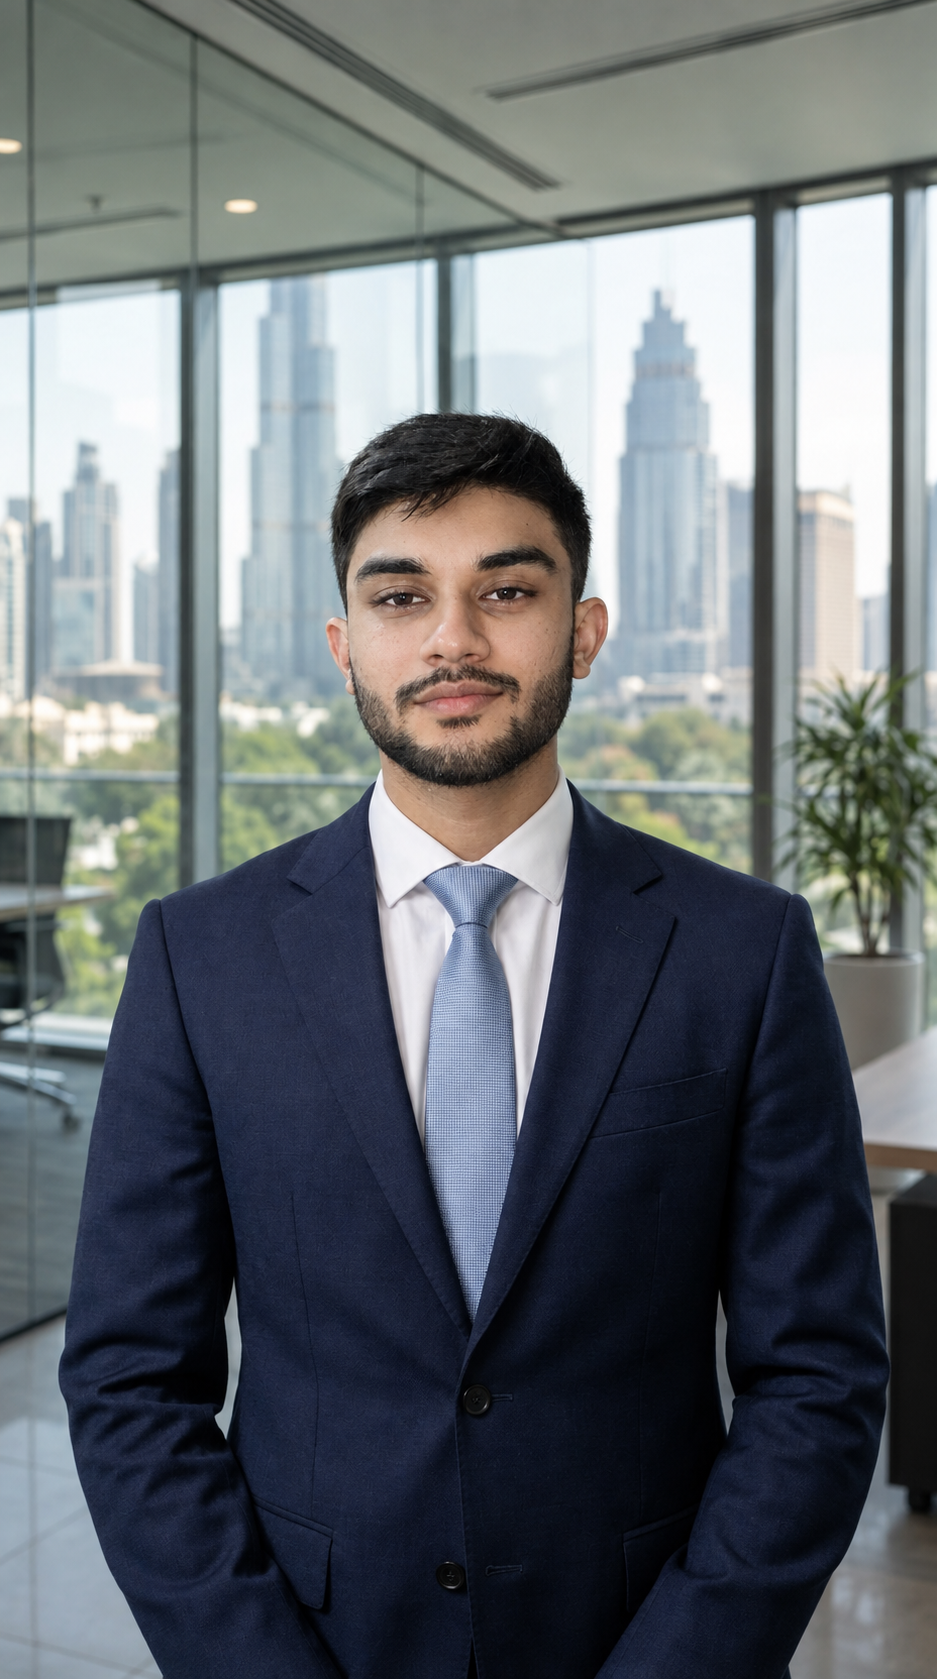
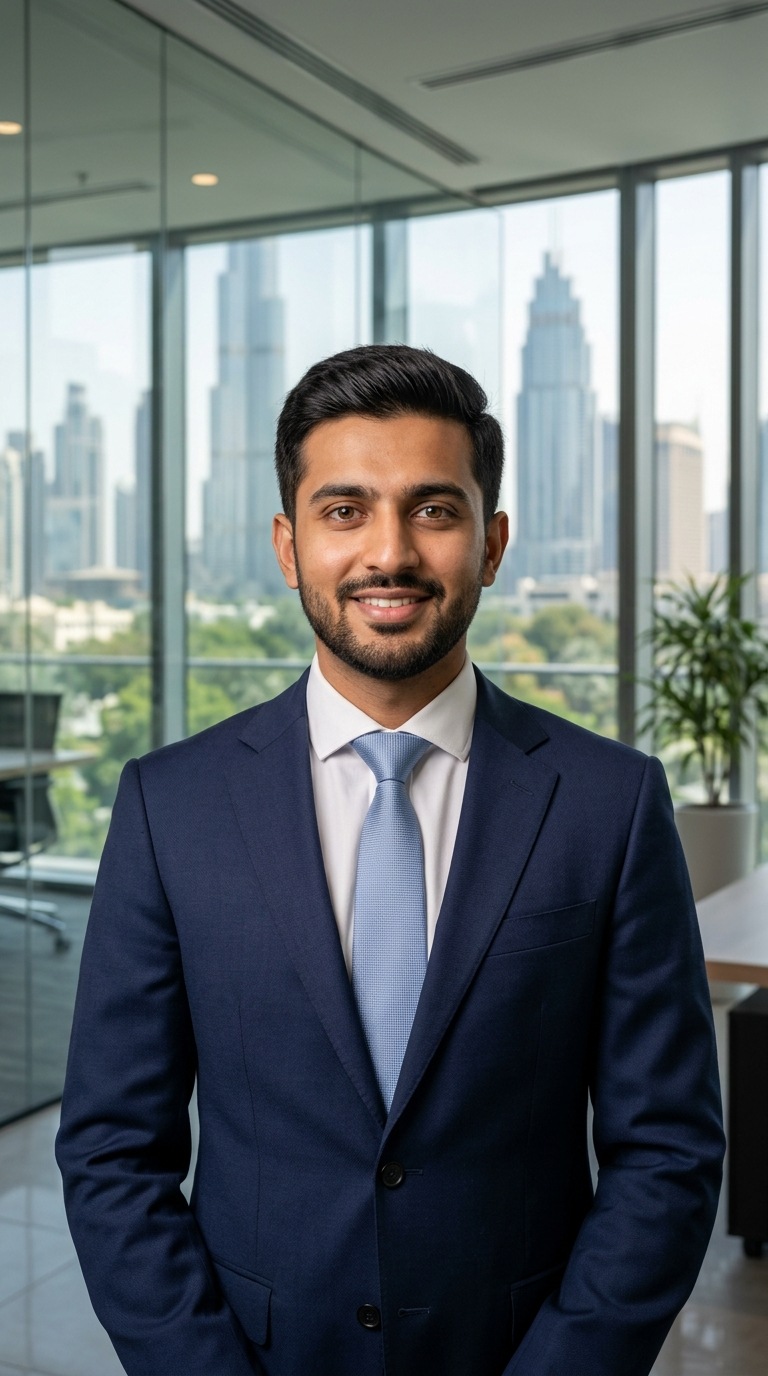
yes i fixed the bugs

diff --git a/css/style.css b/css/style.css
@@ -231,7 +231,8 @@ body {
 /* ==========================================================================
    NAVIGATION BAR
    ========================================================================== */
-.navbar {
+.header,
+#navbar {
   position: sticky;
   top: 0;
   left: 0;
@@ -239,39 +240,51 @@ body {
   height: var(--nav-height);
   z-index: 1000;
   background-color: rgba(7, 9, 14, 0.85);
-  backdrop-filter: blur(16px);
-  -webkit-backdrop-filter: blur(16px);
+  backdrop-filter: blur(18px);
+  -webkit-backdrop-filter: blur(18px);
   border-bottom: 1px solid var(--border-color);
-  transition: var(--transition-smooth);
+  transition: background-color 0.25s ease, box-shadow 0.25s ease, border-color 0.25s ease;
 }
 
-.navbar.scrolled {
-  background-color: rgba(7, 9, 14, 0.95);
-  box-shadow: 0 10px 30px rgba(0, 0, 0, 0.6);
-  border-bottom-color: rgba(99, 102, 241, 0.2);
+.header.scrolled,
+#navbar.scrolled {
+  background-color: rgba(7, 9, 14, 0.96);
+  box-shadow: 0 10px 30px rgba(0, 0, 0, 0.65);
+  border-bottom-color: rgba(99, 102, 241, 0.22);
 }
 
-.nav-container {
+/* Rebuilt Balanced 3-Section Navbar: [Brand] [Nav Links] [CTA Button] */
+.navbar {
+  width: 100%;
+  max-width: 100%;
+  height: 100%;
   display: flex;
   align-items: center;
   justify-content: space-between;
-  height: 100%;
+  padding-left: 40px;
+  padding-right: 40px;
+  gap: 36px; /* Guaranteed minimum separation between Brand, Nav, and CTA */
+  box-sizing: border-box;
 }
 
-/* Brand Identity */
+/* 1. LEFT SECTION: Brand Identity */
 .brand {
   display: inline-flex;
   align-items: center;
-  gap: 12px;
+  gap: 14px; /* Comfortable gap between logo and brand name */
   text-decoration: none;
-  color: var(--text-color);
-  white-space: nowrap;
-  flex-shrink: 0;
+  flex-shrink: 0; /* Never shrink or overlap */
+  cursor: pointer;
+  transition: opacity 0.2s ease;
+}
+
+.brand:hover {
+  opacity: 0.92;
 }
 
 .brand-logo-img {
-  width: 40px;
-  height: 40px;
+  width: 38px;
+  height: 38px;
   border-radius: 8px;
   object-fit: contain;
   background: #000000;
@@ -282,60 +295,112 @@ body {
 }
 
 .brand-name {
-  font-size: 1.15rem;
+  font-size: 1.12rem;
   font-weight: 700;
-  letter-spacing: -0.01em;
+  letter-spacing: -0.015em;
   color: #ffffff;
   white-space: nowrap;
+  line-height: 1;
   display: inline-block;
 }
 
-/* Desktop Navigation Menu */
+/* 2. CENTER SECTION: Evenly Spaced Navigation Links */
+.nav-center {
+  display: flex;
+  align-items: center;
+  justify-content: center;
+  flex: 1; /* Occupies middle space evenly */
+  min-width: 0;
+}
+
 .nav-links {
   display: flex;
   flex-direction: row;
   align-items: center;
-  gap: 15px;
+  justify-content: center;
   list-style: none;
+  margin: 0;
+  padding: 0;
+  gap: 22px; /* Consistent flexbox gap between every single item */
   flex-wrap: nowrap;
   white-space: nowrap;
+}
+
+.nav-links li {
+  display: inline-flex;
+  align-items: center;
+  margin: 0;
+  padding: 0;
 }
 
 .nav-link {
   color: var(--muted-text);
   text-decoration: none;
-  font-size: 0.84rem;
+  font-size: 0.86rem;
   font-weight: 500;
-  transition: var(--transition-smooth);
+  letter-spacing: -0.01em;
   padding: 6px 4px;
   position: relative;
   white-space: nowrap !important;
   display: inline-block;
+  line-height: 1;
+  transition: color 0.2s ease;
 }
 
-.nav-link:hover, .nav-link.active {
+.nav-link:hover,
+.nav-link.active {
   color: #ffffff;
 }
 
 .nav-link::after {
   content: "";
   position: absolute;
-  bottom: 0;
+  bottom: -4px;
   left: 0;
   width: 0%;
   height: 2px;
   background: linear-gradient(90deg, var(--primary-color), var(--secondary-color));
   transition: width 0.25s ease;
+  border-radius: 2px;
 }
 
-.nav-link:hover::after, .nav-link.active::after {
+.nav-link:hover::after,
+.nav-link.active::after {
   width: 100%;
 }
 
-.nav-actions {
-  display: flex;
+/* 3. RIGHT SECTION: CTA Button & Mobile Toggle */
+.navbar-cta {
+  display: inline-flex;
   align-items: center;
   gap: 16px;
+  flex-shrink: 0; /* Never shrink or overlap */
+}
+
+.nav-cta-btn,
+#nav-cta-btn {
+  display: inline-flex;
+  align-items: center;
+  justify-content: center;
+  padding: 10px 22px;
+  font-size: 0.88rem;
+  font-weight: 600;
+  white-space: nowrap;
+  letter-spacing: -0.01em;
+  border-radius: var(--radius-full);
+  background: linear-gradient(135deg, #6366f1 0%, #4f46e5 100%);
+  color: #ffffff;
+  text-decoration: none;
+  border: 1px solid rgba(255, 255, 255, 0.16);
+  box-shadow: 0 0 20px rgba(99, 102, 241, 0.35);
+  transition: transform 0.2s ease, box-shadow 0.2s ease;
+  line-height: 1.2;
+}
+
+.nav-cta-btn:hover,
+#nav-cta-btn:hover {
+  transform: translateY(-2px);
+  box-shadow: 0 0 28px rgba(99, 102, 241, 0.55);
 }
 
 /* Mobile Hamburger Button */
@@ -1843,12 +1908,45 @@ textarea.form-control {
 /* ==========================================================================
    RESPONSIVE DESIGN (MEDIA QUERIES)
    ========================================================================== */
-@media (max-width: 1260px) {
+@media (max-width: 1440px) {
+  .navbar {
+    padding-left: 32px;
+    padding-right: 32px;
+    gap: 24px;
+  }
+  .nav-links {
+    gap: 16px;
+  }
+  .nav-link {
+    font-size: 0.83rem;
+    padding: 6px 2px;
+  }
+  .brand-name {
+    font-size: 1.05rem;
+  }
+  .brand-logo-img {
+    width: 36px;
+    height: 36px;
+  }
+  .nav-cta-btn,
+  #nav-cta-btn {
+    padding: 8px 18px;
+    font-size: 0.84rem;
+  }
+}
+
+@media (max-width: 1240px) {
+  .nav-center,
   .nav-links {
     display: none;
   }
   .hamburger {
     display: block;
+  }
+  .navbar {
+    padding-left: 24px;
+    padding-right: 24px;
+    gap: 20px;
   }
 }
 
@@ -1890,5 +1988,24 @@ textarea.form-control {
   }
   .about-highlights {
     grid-template-columns: 1fr;
+  }
+}
+
+@media (max-width: 600px) {
+  .navbar {
+    padding-left: 18px;
+    padding-right: 18px;
+    gap: 16px;
+  }
+  .brand-name {
+    font-size: 0.95rem;
+  }
+  .brand-logo-img {
+    width: 32px;
+    height: 32px;
+  }
+  .nav-cta-btn,
+  #nav-cta-btn {
+    display: none;
   }
 }

diff --git a/index.html b/index.html
@@ -31,20 +31,19 @@
   <canvas id="ambient-canvas"></canvas>
 
   <!-- ==========================================================================
-       NAVIGATION BAR (Sticky, Fully Responsive, Official Logo)
+       NAVIGATION BAR (Clean 3-Section Rebuilt Layout: Brand | Navigation | CTA)
        ========================================================================== -->
-  <header class="navbar" id="navbar">
-    <div class="container nav-container">
-      <!-- Official Company Logo & Name (Single Row) -->
+  <header class="header" id="navbar">
+    <div class="navbar">
+      <!-- 1. LEFT SECTION: Logo & Official Brand Identity -->
       <a href="#home" class="brand" id="brand-link">
         <img src="/assets/logo.webp" alt="Aura Craft Labs Limited Official Logo" class="brand-logo-img" id="nav-logo" onerror="this.onerror=null; this.src='/assets/logo.png';" />
         <span class="brand-name">Aura Craft Labs Limited</span>
       </a>
 
-      <!-- Desktop Navigation Menu (All 12 Required Items) -->
-      <nav aria-label="Main Navigation">
+      <!-- 2. CENTER SECTION: Evenly Spaced Navigation Links -->
+      <nav class="nav-center" aria-label="Main Navigation">
         <ul class="nav-links">
-          <li><a href="#home" class="nav-link active">Home</a></li>
           <li><a href="#about" class="nav-link">About</a></li>
           <li><a href="#capabilities" class="nav-link">Capabilities</a></li>
           <li><a href="#how-it-works" class="nav-link">How It Works</a></li>
@@ -55,13 +54,12 @@
           <li><a href="#pricing" class="nav-link">Pricing</a></li>
           <li><a href="#blog" class="nav-link">Blog</a></li>
           <li><a href="#changelog" class="nav-link">Changelog</a></li>
-          <li><a href="#contact" class="nav-link">Contact</a></li>
         </ul>
       </nav>
 
-      <!-- Primary Call to Action & Mobile Hamburger -->
-      <div class="nav-actions">
-        <a href="#contact" class="btn btn-primary" id="nav-cta-btn">Let's Build Together</a>
+      <!-- 3. RIGHT SECTION: Primary CTA Button & Mobile Toggle -->
+      <div class="navbar-cta">
+        <a href="#contact" class="btn btn-primary nav-cta-btn" id="nav-cta-btn">Let's Build Together</a>
         <button class="hamburger" id="hamburger-btn" aria-label="Toggle navigation menu">
           <span class="hamburger-line"></span>
           <span class="hamburger-line"></span>
@@ -1146,7 +1144,7 @@
               </p>
 
               <div class="contact-details-list">
-                <!-- Editable company email Email Placeholder -->
+                <!-- Editable Email Placeholder -->
                 <div class="contact-detail-item">
                   <div class="contact-icon">✉</div>
                   <div>
@@ -1155,12 +1153,12 @@
                   </div>
                 </div>
 
-                <!-- Editable Ceo Email Placeholder -->
+                <!-- Editable Phone Placeholder -->
                 <div class="contact-detail-item">
                   <div class="contact-icon">✉</div>
                   <div>
                     <div class="contact-detail-label">Email Inquiries</div>
-                    <div class="contact-detail-val" id="contact-email1">officalceoaliimran@gmail.com</div>
+                    <div class="contact-detail-val" id="contact-email">officalceoaliimran@gmail.com</div>
                   </div>
                 </div>
 
@@ -1222,8 +1220,7 @@
                     <option value="AI Automation & Workflows">AI Automation & Workflows</option>
                     <option value="API & System Integration">API & System Integration</option>
                     <option value="General Strategic Consultation">General Strategic Consultation</option>
-                    <option value="Full Stack Web Apps">Full Stack Web Apps</option>
-                    <option value="Mobile apps">Mobile apps</option>
+                      <option value="Mobile Apps">Mobile Apps</option>
                   </select>
                 </div>
               </div>
@@ -1252,7 +1249,7 @@
         <!-- Brand Info -->
         <div class="footer-brand">
           <div style="display: flex; align-items: center; gap: 12px;">
-            <img src="/assets/logo.svg" alt="Aura Craft Labs Limited" class="brand-logo-img" onerror="this.onerror=null; this.src='/assets/logo.png';" />
+            <img src="/assets/logo.webp" alt="Aura Craft Labs Limited" class="brand-logo-img" onerror="this.onerror=null; this.src='/assets/logo.png';" />
             <span style="font-size: 1.15rem; font-weight: 700; color: #ffffff;">Aura Craft Labs Limited</span>
           </div>
           <p>
